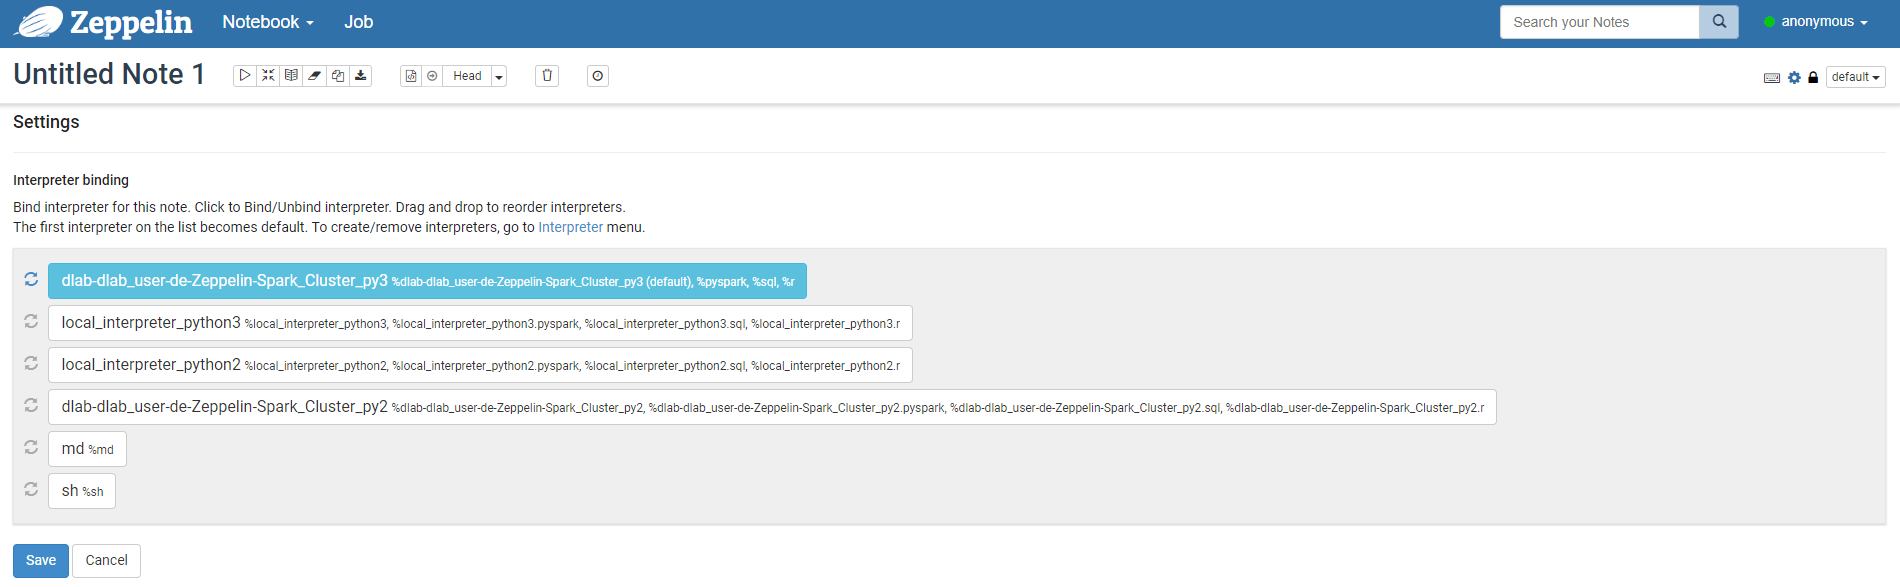
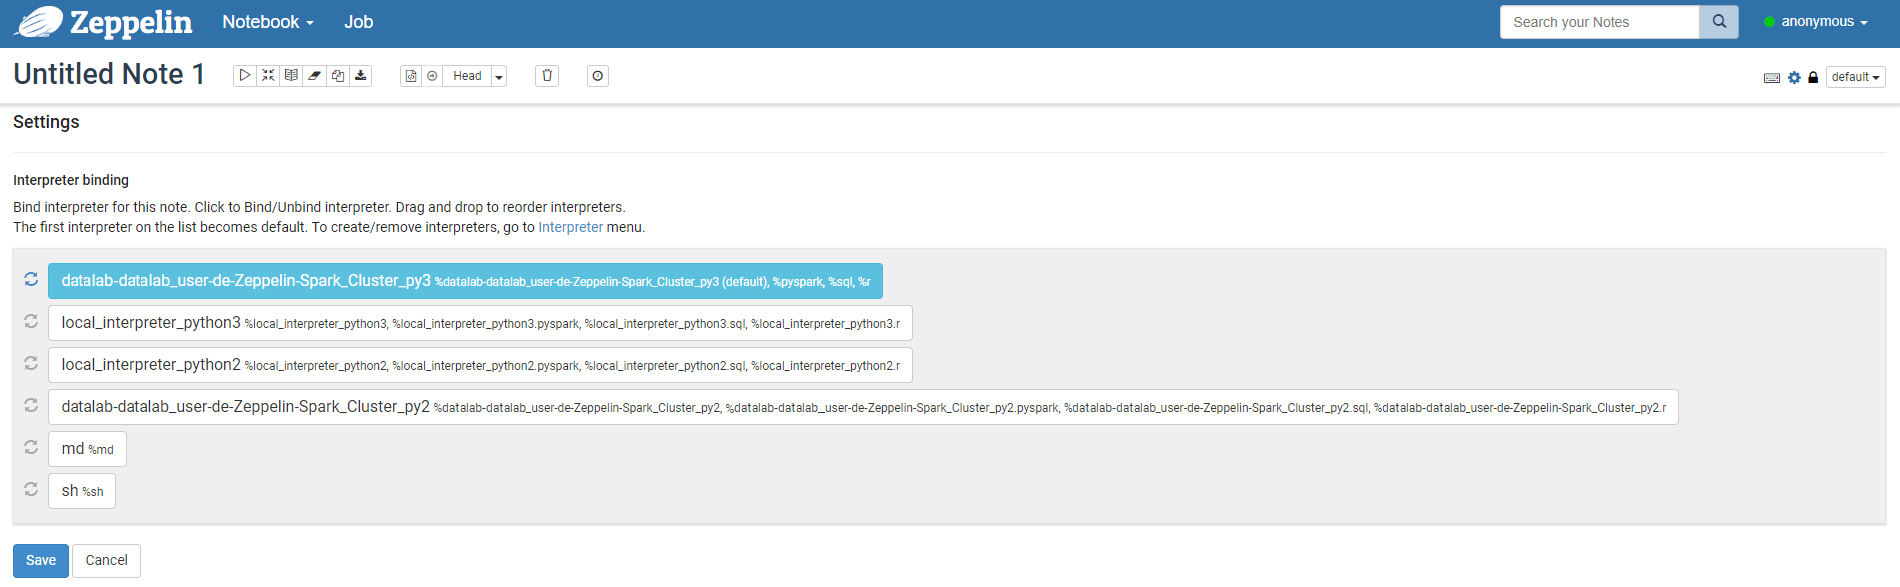
changed zeppelin screenshot

Changed region(s): [[0.0311, 0.6746, 0.8695, 0.7053], [0.0311, 0.4293, 0.4658, 0.5213]]

diff --git a/USER_GUIDE.md b/USER_GUIDE.md
@@ -2,7 +2,7 @@ What is DataLab?
 =============
 
 DataLab is an essential toolset for analytics. It is a self-service Web Console, used to create and manage exploratory environments. It allows teams to spin up analytical environments with best of breed open-source tools just with a single click of the mouse. Once established, environment can be managed by an analytical team itself, leveraging simple and easy-to-use Web Interface.
-<p>See more at <a href="http://dlab.opensource.epam.com/" rel="nofollow">dlab.opensource.epam.com</a>.</p>
+<p>See more at <a href="https://datalab.apache.org/" rel="nofollow">https://datalab.apache.org/</a>.</p>
 
 ------------
 ## CONTENTS
@@ -50,7 +50,7 @@ DataLab is an essential toolset for analytics. It is a self-service Web Console,
 
 &nbsp; &nbsp; &nbsp; &nbsp; &nbsp; &nbsp; &nbsp; &nbsp; [Multiple Cloud endpoints](#multiple_cloud_endpoints)
 
-&nbsp; &nbsp; &nbsp; &nbsp; &nbsp; &nbsp; &nbsp; &nbsp; [Manage DataLab quotas](#manage_dlab_quotas)
+&nbsp; &nbsp; &nbsp; &nbsp; &nbsp; &nbsp; &nbsp; &nbsp; [Manage DataLab quotas](#manage_datalab_quotas)
 
 [DataLab billing report](#billing_page)
 
@@ -645,7 +645,7 @@ Once all fields are filled in and you click on "Connect" button, you are able to
 
 Administrator can deactivate whole analytical environment via bin icon <img src="doc/bin_icon.png" alt="bin" width="15">. And all related instances change its satuses to "Terminating" and soon become "Terminated".
 
-### Manage DataLab quotas <a name="manage_dlab_quotas"></a>
+### Manage DataLab quotas <a name="manage_datalab_quotas"></a>
 
 Administrator can set quotas per project (monthly or total period) and for the whole DataLab. To do it click on "Manage DataLab quotas" button. "Manage DataLab quotas" popup shows up. Administrator can see all active project:
 
